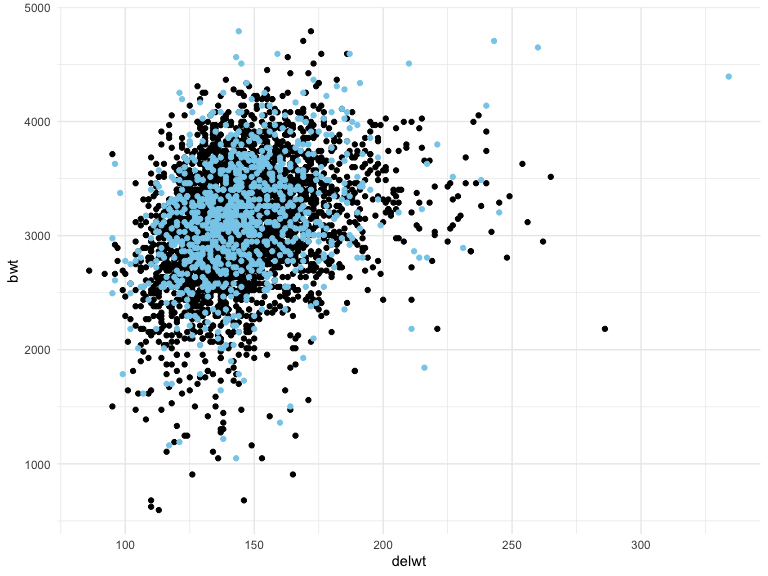
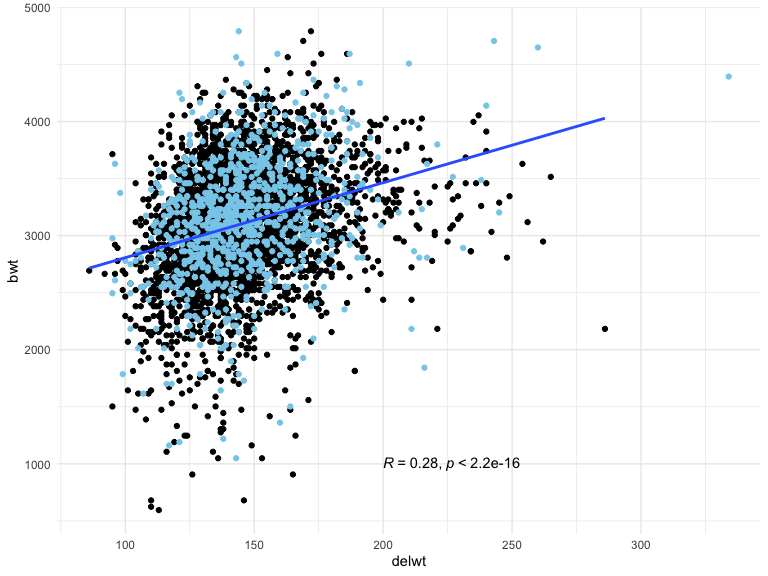
Final edits to the Rmd

diff --git a/p8105_hw6_cyl2159.md b/p8105_hw6_cyl2159.md
@@ -73,13 +73,29 @@ above) are normally distributed.
 
 ``` r
 r_squared_ci <- bootstrap_r_squared |> 
-  summarise(boot_ci_ll = quantile(`r.squared`, 0.025) |> round(digits = 3), 
-            boot_ci_ul = quantile(`r.squared`, 0.975) |> round(digits = 3))
+  summarise(r_squared_ci_ll = quantile(`r.squared`, 0.025) |> round(digits = 3), 
+            r_squared_ci_ul = quantile(`r.squared`, 0.975) |> round(digits = 3))
 
 log_estimate_ci <- bootstrap_log_estimate |> 
-  summarise(boot_ci_ll = quantile(log_estimate, 0.025) |> round(digits = 3), 
-            boot_ci_ul = quantile(log_estimate, 0.975) |> round(digits = 3))
+  summarise(log_estimate_ci_ll = quantile(log_estimate, 0.025) |> round(digits = 3), 
+            log_estimate_ci_ul = quantile(log_estimate, 0.975) |> round(digits = 3))
+
+r_squared_ci |> 
+  knitr::kable()
 ```
+
+| r_squared_ci_ll | r_squared_ci_ul |
+|----------------:|----------------:|
+|           0.894 |           0.927 |
+
+``` r
+log_estimate_ci |> 
+  knitr::kable()
+```
+
+| log_estimate_ci_ll | log_estimate_ci_ul |
+|-------------------:|-------------------:|
+|              1.965 |              2.059 |
 
 95% confidence interval for $r^2$ and $log(\hat{\beta_0}*\hat{\beta_1})$
 are (0.894, 0.927) and (1.965, 2.059) respectively. We are 95% sure that
@@ -132,16 +148,15 @@ res_male <- logistic_mod |>
 or_male <- pull(res_male, `adj_OR`) |> 
   round(digits = 3)
 
-logistic_mod |> 
-  knitr::kable(digits = 3) 
+
+res_male |> 
+  mutate_if(is.numeric, signif, 3) |> 
+  knitr::kable(digits = 11)
 ```
 
-| term             | adj_OR | ci_ll | ci_ul | p.value |
-|:-----------------|-------:|------:|------:|--------:|
-| (Intercept)      |  3.164 | 1.989 | 5.031 |   0.000 |
-| victim_age       |  0.993 | 0.987 | 1.000 |   0.043 |
-| victim_sexMale   |  0.426 | 0.325 | 0.558 |   0.000 |
-| victim_raceBlack |  0.431 | 0.306 | 0.607 |   0.000 |
+| term           | adj_OR | ci_ll | ci_ul | p.value |
+|:---------------|-------:|------:|------:|--------:|
+| victim_sexMale |  0.426 | 0.325 | 0.558 | 6.3e-10 |
 
 Upon running the logistic regression, at 5% significance level and after
 keeping all other variables fixed, we have significant evidence that
@@ -189,10 +204,9 @@ logistic_allcities_df |>
 There are four cities where estimated adjusted odds ratio is greater
 than one (Albuquerque, Stockton, Fresno and Nashville) which means that
 male victims in these cities are more likely to have their case resolved
-compared to female victims. In all the other 43 cities, male victims
-have less odds of a resolved homicide case than female victims. In
-Richmond and Atlanta, male and females have almost equal chance of
-solved case.
+compared to female victims. In Richmond and Atlanta, male and females
+have almost equal chance of solved case. In all the other cities, male
+victims have less odds of a resolved homicide case than female victims.
 
 ## Problem 3
 
@@ -226,14 +240,14 @@ missing_value_check <- unique(is.na(child_df))
 ```
 
 The child birthweight dataset consists of 4 categorical variables
-(`babysex`, `frace`, `malform` and `mrace`) representing sec of the
+(`babysex`, `frace`, `malform` and `mrace`) representing sex of the
 baby, father’s race, presence of any malformation that could affect
 baby’s weight and mother’s race. There are 16 numerical variables.
 
-I am interested to check if birthweight can be predicted using mother’s
-delivery weight after accounting for all other observations related to
-her. So, first I checked the correlation between related continuous
-variables.
+I am interested to check if birthweight can be predicted by using
+mother’s delivery weight while accounting for all other observations
+related to her. So, first I checked the correlation between related
+continuous variables.
 
 ``` r
 my_data <- child_df[, c("delwt","menarche", "ppbmi", "wtgain", "mheight", "ppwt", 
@@ -247,7 +261,7 @@ Mother’s pre-pregancy BMI - which is based on their height/weight at
 that point - correlates with weight at delivery too, so I used `delwt`
 along with `ppbmi` along with interaction terms to test their combined
 effects. The value for `ppbmi` is derived from `mheight` and `ppwt`, so
-using these variable will be redundant. Number of prior small for
+using latter these variable will be redundant. Number of prior small for
 gestational age babies all have value of 0 and number of live births
 prior to this pregnancy are mostly 0, so they are not an informative
 variable. Therefore, I first start by proposing a multiple linear
@@ -274,8 +288,13 @@ delivery
 train_df |> 
   ggplot(aes(x = delwt, y = bwt), size = 0.2) + 
   geom_point()+
-  geom_point(data = test_df, color = "skyblue")
+  geom_point(data = test_df, color = "skyblue") +
+  scale_color_discrete(labels = c("Training", "Test")) +
+  geom_smooth(method = lm, se = FALSE)+ 
+  stat_cor(label.x = 200, label.y = 1000)
 ```
+
+    ## `geom_smooth()` using formula = 'y ~ x'
 
 <img src="p8105_hw6_cyl2159_files/figure-gfm/unnamed-chunk-12-1.png" width="85%" style="display: block; margin: auto;" />
 
@@ -359,8 +378,11 @@ train_df |>
   ggplot(aes(x = pred, y = resid)) + 
   geom_hline(yintercept = 0, color = "red", alpha = 0.6, linetype = "dotted") +
   geom_point(size = 0.4, color = "black", shape = 21)+
+  geom_smooth(method = lm, se = FALSE)+ 
   labs(title = "Residual Versus Fitted Values")
 ```
+
+    ## `geom_smooth()` using formula = 'y ~ x'
 
 <img src="p8105_hw6_cyl2159_files/figure-gfm/unnamed-chunk-15-1.png" width="80%" style="display: block; margin: auto;" />
 The “spread” of the points in the plot are remain similar across
@@ -370,7 +392,7 @@ above.
 
 Adding the two other models and cross-validation of all three models: \*
 Model1: Linear model above with mothers’ delivery weight, age, race,
-gestational period and number of cigarrettes smokes during pregnancy. \*
+gestational period and number of cigarettes smokes during pregnancy. \*
 Model2: One using length at birth and gestational age as predictors
 (main effects only) \* Model3: One using head circumference, length,
 sex, and all interactions (including the three-way interaction) between
